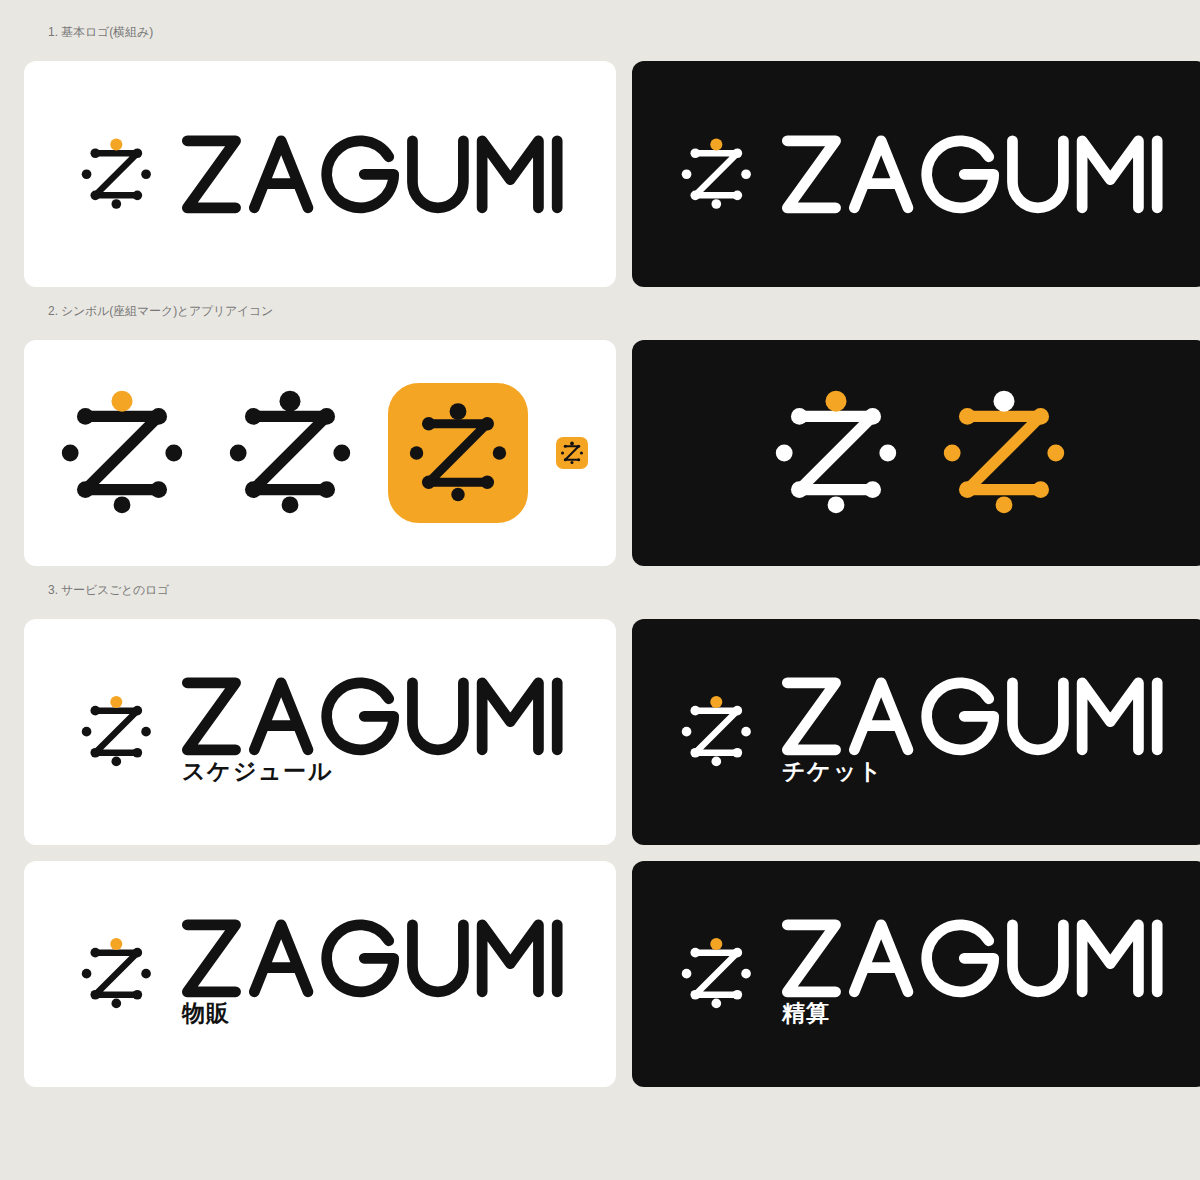
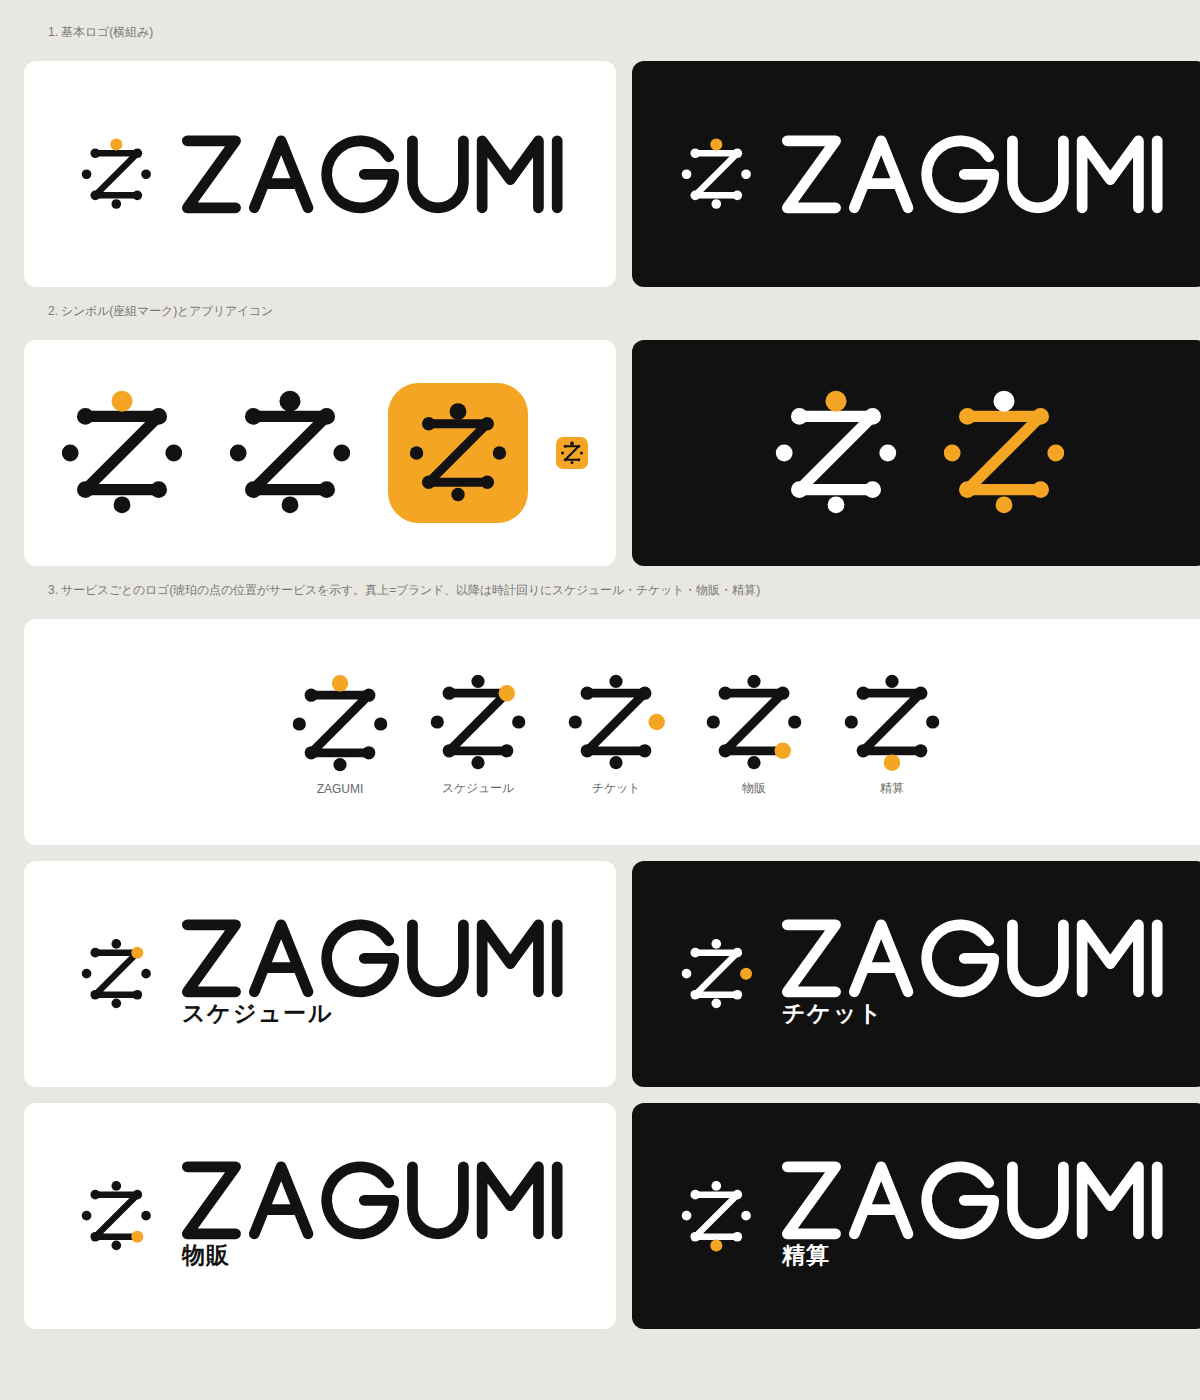
ロゴの琥珀の点の位置でサービスを区別する
- 真上=ZAGUMI ブランド(アカウント・アプリアイコン)、以降は時計回りにスケジュール(右上)・チケット(右)・物販(右下)・精算(真下)。割り当ては docs/brand-gen.mjs の SERVICE_DOT
- サービス別のロゴとシンボル単体(zagumi-<service>-mark*.svg)を再生成し、プレビューに点位置の一覧を追加
- docs/brand.md に割り当て表を追記(8 サービスを超えたらロゴを見直す)

Claude-Session: https://claude.ai/code/session_01WY5vo23mG1jZN26bZN1g66

diff --git a/docs/brand.md b/docs/brand.md
@@ -8,6 +8,21 @@
 - **ワードマーク**: 線だけで組んだ幾何学的な大文字。丸い線端で柔らかく、裏方の道具らしい実用感を残す
 - **色**: 墨 `#121212`、琥珀 `#F5A524`(アプリのアクセント amber と同系)、紙 `#FFFFFF`。暗い背景では墨を白に置き換える
 
+## サービスごとの琥珀の点
+
+円周の 8 つの点のうち、琥珀色にする位置でサービスを表す。真上がブランド(ZAGUMI 全体・アカウント)、以降は時計回りに割り当てる。8 サービスを超える場合はロゴ自体を見直す。
+
+| 位置(真上を 0、時計回り) | 用途 | ファイル |
+|---|---|---|
+| 0(真上) | ZAGUMI ブランド、ZAGUMIアカウント、アプリアイコン | `zagumi-logo.svg`、`zagumi-mark.svg`、`zagumi-icon.svg` |
+| 1(右上) | ZAGUMIスケジュール | `zagumi-schedule*.svg` |
+| 2(右) | ZAGUMIチケット | `zagumi-ticket*.svg` |
+| 3(右下) | ZAGUMI物販 | `zagumi-goods*.svg` |
+| 4(真下) | ZAGUMI精算 | `zagumi-pay*.svg` |
+| 5〜7 | 予備 | |
+
+割り当ては `docs/brand-gen.mjs` の `SERVICE_DOT` が正。
+
 ## ファイル
 
 | ファイル | 用途 |
@@ -16,7 +31,7 @@
 | `zagumi-mark.svg` / `-white` / `-mono` | シンボル単体。SNS アイコン、小さい表示、単色印刷 |
 | `zagumi-wordmark.svg` | 文字のみ |
 | `zagumi-icon.svg` | アプリアイコン(琥珀の角丸に墨のマーク)。`src/app/icon.svg` と同じ |
-| `zagumi-schedule.svg` 等 | サービス名つき(スケジュール・チケット・物販・精算)。`-white` は暗い背景用 |
+| `zagumi-schedule.svg` 等 | サービス名つき(スケジュール・チケット・物販・精算)。`-white` は暗い背景用、`-mark` はそのサービスの点位置のシンボル単体 |
 | `preview.png` | 一覧プレビュー |
 
 ## 使い方の決まり
